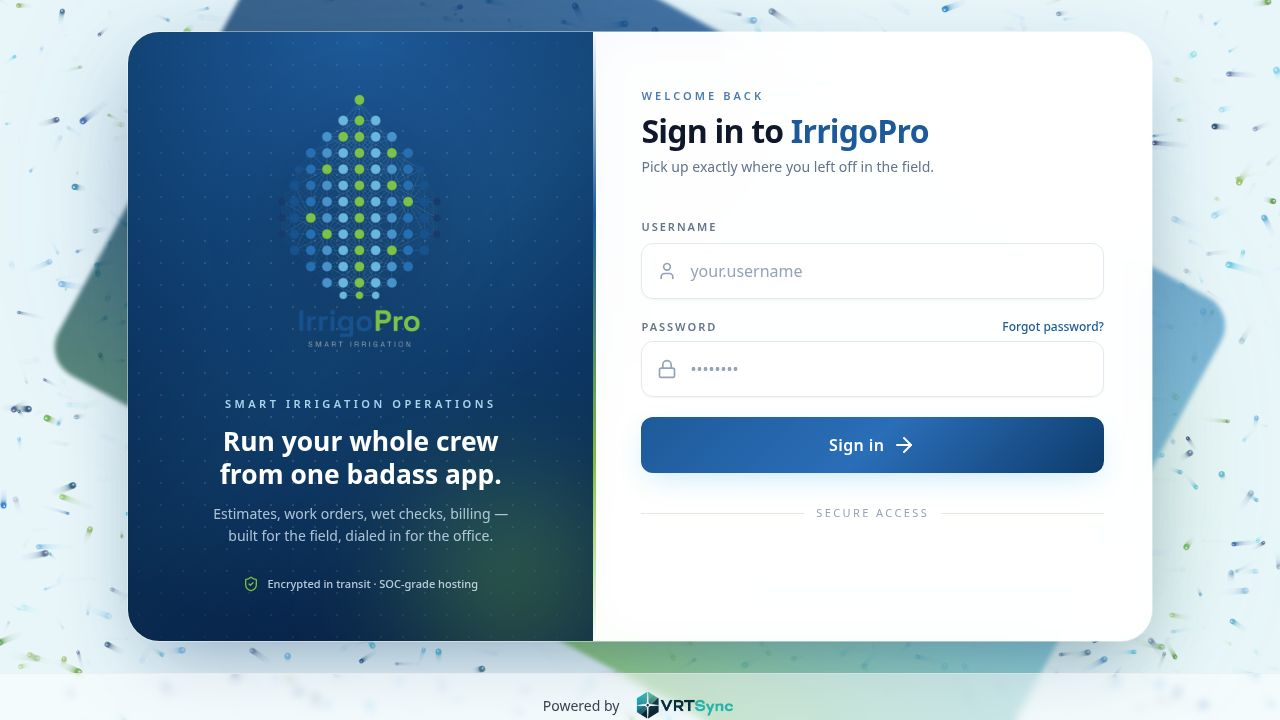
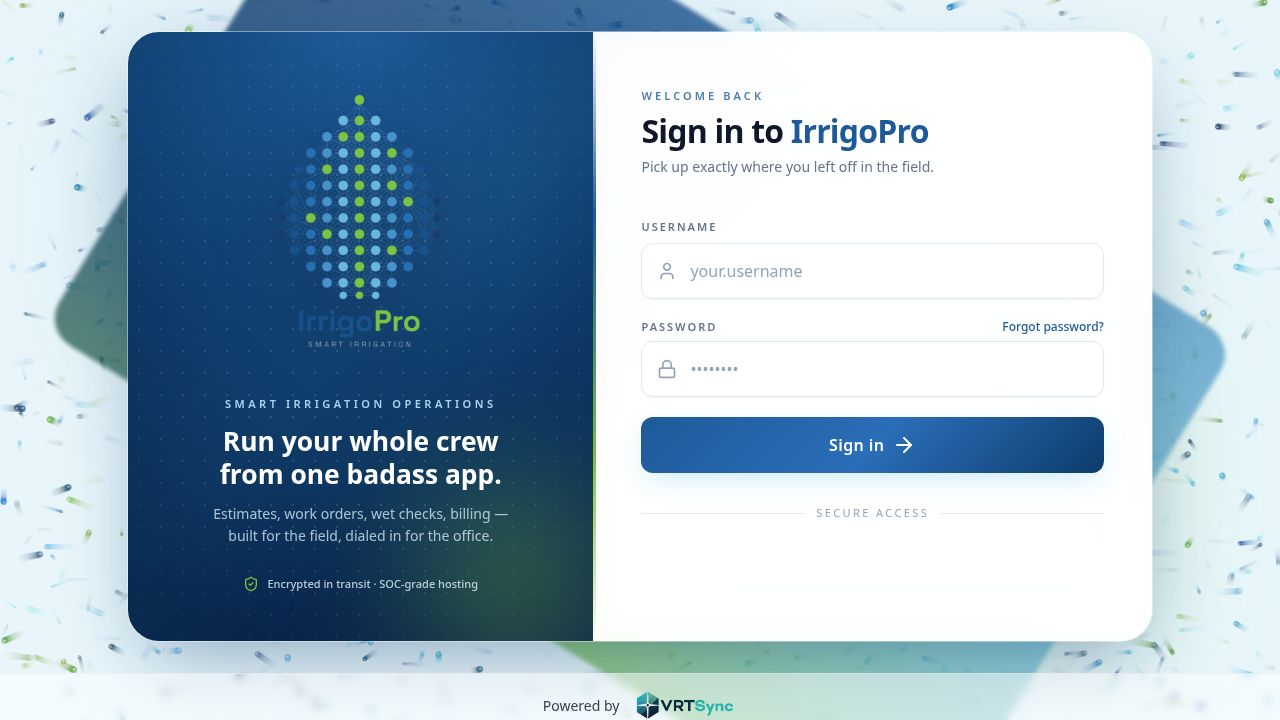
Improve error messages for billing conversion failures
Add a recognized error rule to pass specific "Cannot auto-bill" messages through from the backend.

Replit-Commit-Author: Agent
Replit-Commit-Session-Id: 7701329e-b71e-43af-9557-56c01c4ef441
Replit-Commit-Checkpoint-Type: full_checkpoint
Replit-Commit-Event-Id: 002f372e-823e-4357-8de8-1f6d4c9ebb31
Replit-Commit-Screenshot-Url: https://storage.googleapis.com/screenshot-production-us-central1/ae7894b1-12cd-48fe-acc6-f6506c6cf73b/7701329e-b71e-43af-9557-56c01c4ef441/Zh6pKj4
Replit-Helium-Checkpoint-Created: true

diff --git a/artifacts/api-server/src/routes/routes.ts b/artifacts/api-server/src/routes/routes.ts
@@ -16370,6 +16370,13 @@ export async function registerRoutes(app: Express): Promise<Server> {
         ctx: { cid, wetCheckId: req.params.id },
         fallbackStatus: 400,
         fallbackMessage: "Couldn't convert wet check — please retry",
+        recognized: [
+          {
+            test: (_e: any, raw: string) => raw.startsWith("Cannot auto-bill"),
+            status: 400,
+            message: (_e: any, raw: string) => raw,
+          },
+        ],
       });
       res.status(status).json({ message });
     }